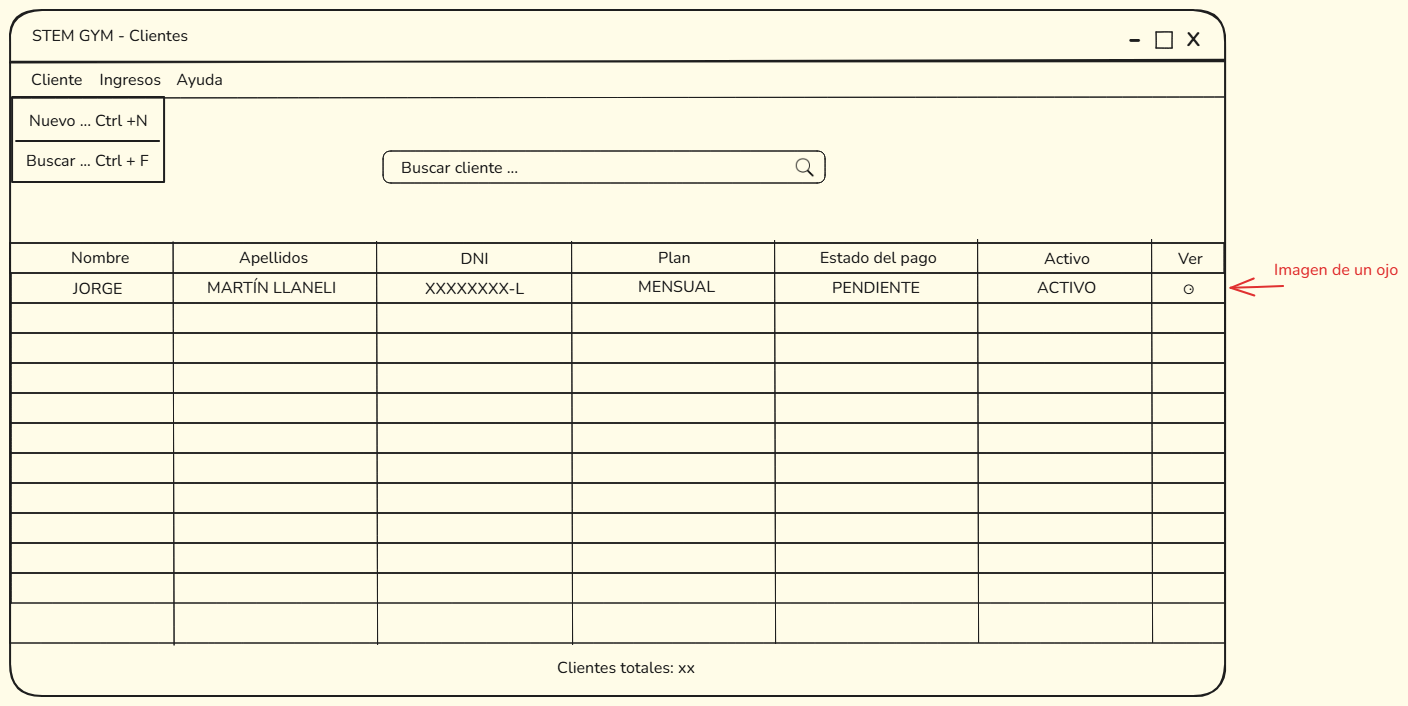
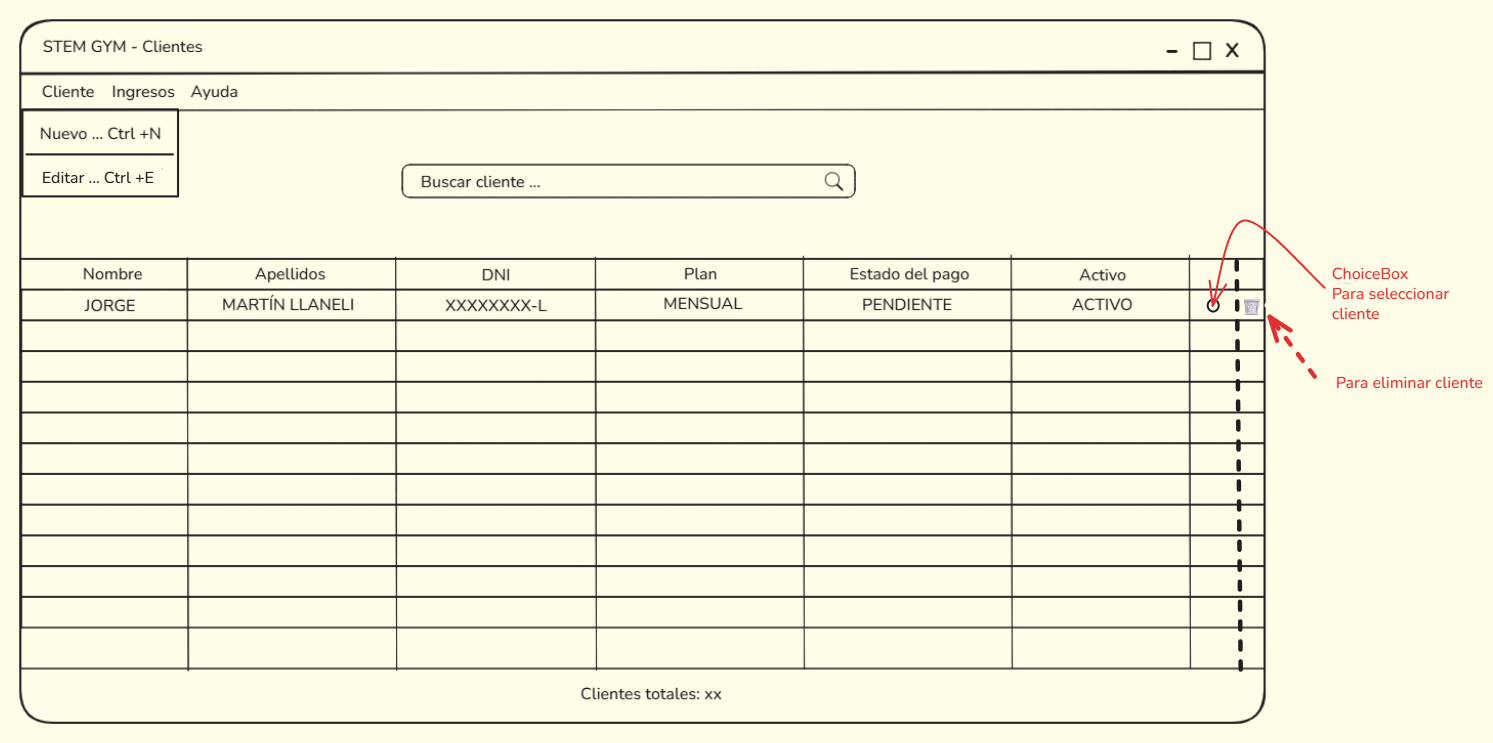
Fix: Modifico boceto ventana principal y modifico contenido FICHA.md

Changed region(s): [[0.0, 0.0, 1.0, 0.9972], [0.25, 0.2181, 0.5938, 0.2805]]

diff --git a/FICHA.md b/FICHA.md
@@ -49,7 +49,7 @@ Las fotos de tus bocetos, en la carpeta `bocetos/` con estos nombres (`.jpg` o `
 ### Qué hace cada botón
 
 - Inicio de sesión › **Ingresar**: comprueba el trabajador y la contraseña y abre la ventana principal. **Crear**: abre un formulario para crear un trabajador.
-- Ventana principal > **Ver(imagen de un ojo)**: abre el perfil del cliente.
+- Ventana principal > **ChoiceBox**: Selecciona al cliente. **Papelera**: Elimina al cliente.
 - Formulario Cliente > **Crear**: comprueba los datos, pregunta al usuario y crea el cliente y cierra el formulario. **Cancelar**: Pregunta al usuario y cierra el formulario. **Eliminar**: pregunta al usuario, elimina al cliente y cierra el formulario de edición.
 
 
@@ -57,7 +57,7 @@ Las fotos de tus bocetos, en la carpeta `bocetos/` con estos nombres (`.jpg` o `
 
 - Si el usuario o la contraseña están mal: «¡ERROR! Datos incorrectos. Revise el nombre del trabajador y la contraseña»
 - Si falta un campo obligatorio en el formulario: «¡ERROR! Parece que 1 o más campos obligatorios están incompletos»
-- Si no encuentra el cliente: «0 clientes encontrados con el nombre: dqwdqwdqqw»
+- Si no encuentra el cliente: «0 clientes encontrados con el nombre: nombreCliente»
 - Si crea un nuevo cliente: «Se añadió a nombreCliente a la lista de clientes»
 - Si elimina un cliente: «¿Estás seguro de querer eliminar a nombreCliente? Esta acción es irreversible»
 - Si elimina un cliente confirma: «cliente nombreCliente eliminado»
